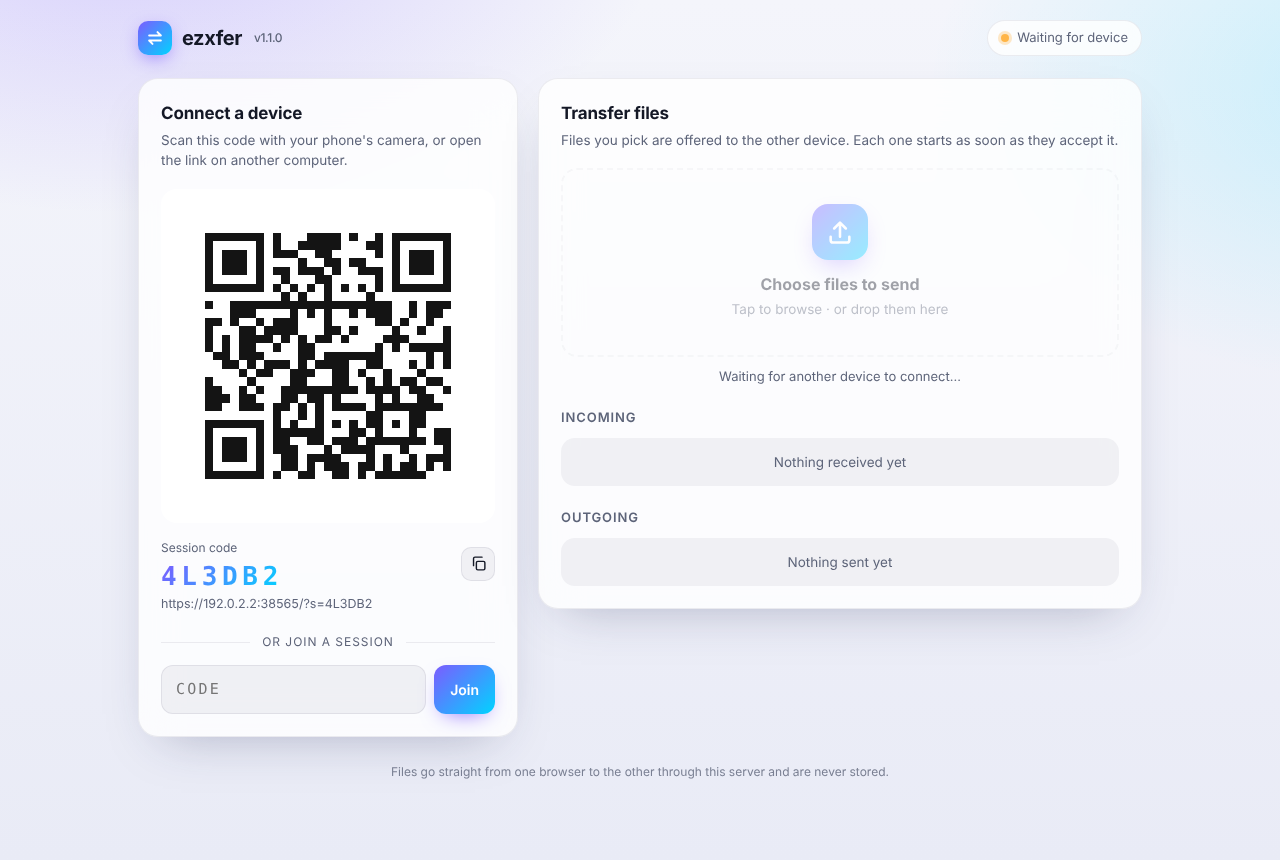
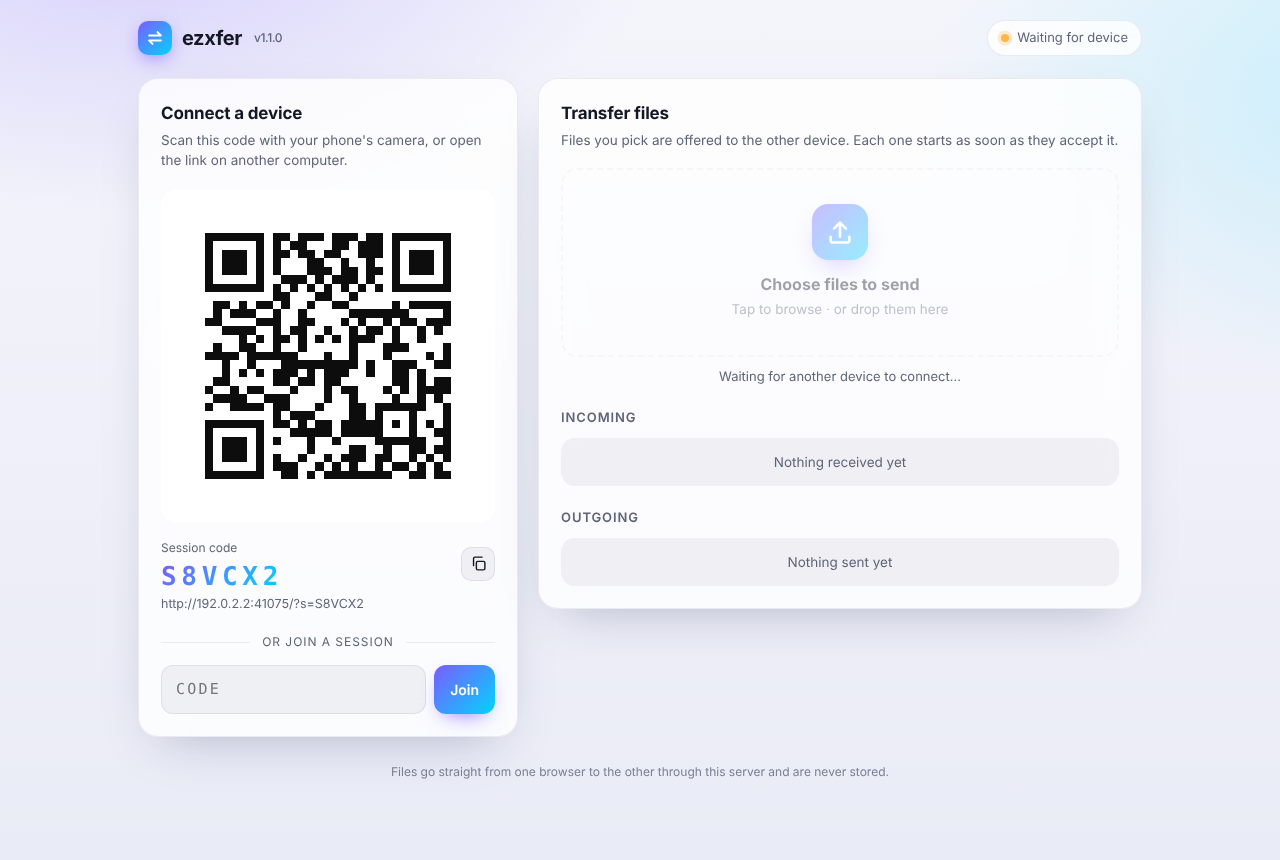
README: fresh screenshots, drop details users don't need
Screenshots retaken from the current version (plain HTTP, the default
setup). Removed the "Choosing files…" status, the desktop "Save as"
note under HTTPS, the redundant relay/speed note and the browser
specifics of large-file handling (the memory caveat under "Good to
know" covers what users need); all of it is in the developer guide.

Claude-Session: https://claude.ai/code/session_01URcgCdJAyYmRgjDTgNeGL5

Changed region(s): [[0.1562, 0.2721, 0.375, 0.5744], [0.125, 0.6349, 0.2812, 0.7256]]

diff --git a/README.md b/README.md
@@ -10,11 +10,8 @@ Send files between a computer and a phone, or any two devices, right from the br
 
 - **Pair by QR code** or by typing a 6-character session code.
 - **Both directions:** each device can send. Files show up on the other side with Accept / Decline.
-- **Large files:** data streams straight through and is never stored. Desktop Chrome/Edge and Android write files to disk as they arrive, over HTTPS or on the computer running ezxfer.
-- **Robust on phones:**
-  - transfers resume after a dropped connection;
-  - the screen stays on while transferring;
-  - the other device sees "Choosing files…" instead of a disconnect while a file picker is open.
+- **Large files:** data streams straight through and is never stored.
+- **Robust on phones:** transfers resume after a dropped connection, and the screen stays on while transferring.
 - **Optional HTTPS** with your own certificate.
 - **A single small C program:** the web app is built in. It needs no dependencies, or only OpenSSL if you want HTTPS.
 - Responsive, with light and dark themes.
@@ -60,12 +57,7 @@ Options:
 ./ezxfer --cert cert.pem --key key.pem
 ```
 
-HTTPS encrypts transfers and unlocks browser features:
-- streaming large downloads to disk on Android;
-- keeping the screen on;
-- the "Save as" dialog on desktop Chrome/Edge when they open the page from another machine.
-
-Plain `http://` requests to the same port are redirected.
+HTTPS encrypts transfers and lets phones stream large downloads to disk and keep the screen on. Plain `http://` requests to the same port are redirected.
 
 Phones need to **trust** the certificate. Otherwise some browsers refuse the connection or the streamed downloads. The easiest way is [mkcert](https://github.com/FiloSottile/mkcert): install its root certificate on the phone once, then create a certificate for your computer's LAN address:
 
@@ -77,7 +69,6 @@ Behind a reverse proxy that handles TLS (Caddy, nginx), run ezxfer without a cer
 
 ## Good to know
 
-- Files are relayed by the server, never stored, and transfers are only as fast as the network.
 - Anyone with the session code can join while a slot is free. A session holds two devices.
 - Without HTTPS, and on iPhones and iPads, a received file is held in memory until it's complete. That's fine for photos and videos, but files of several GB may exceed what a phone browser allows.
 - Reloading the page cancels its running transfers.
